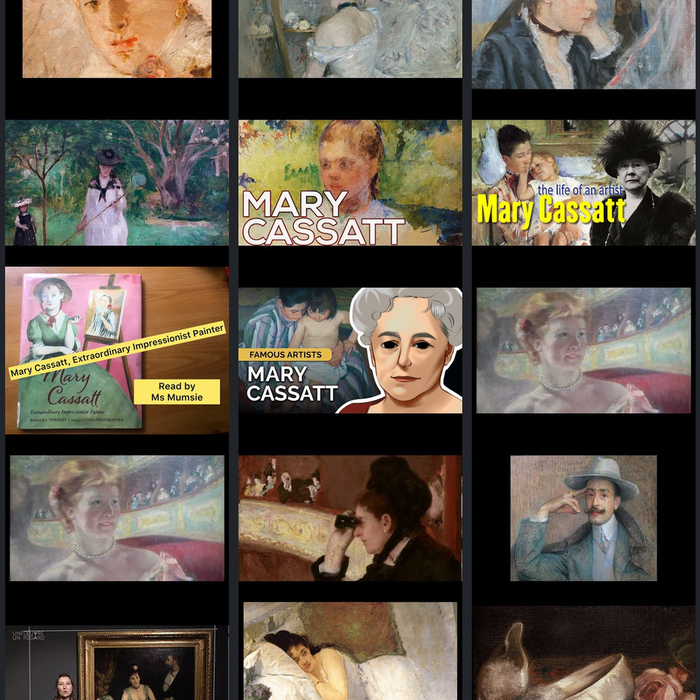
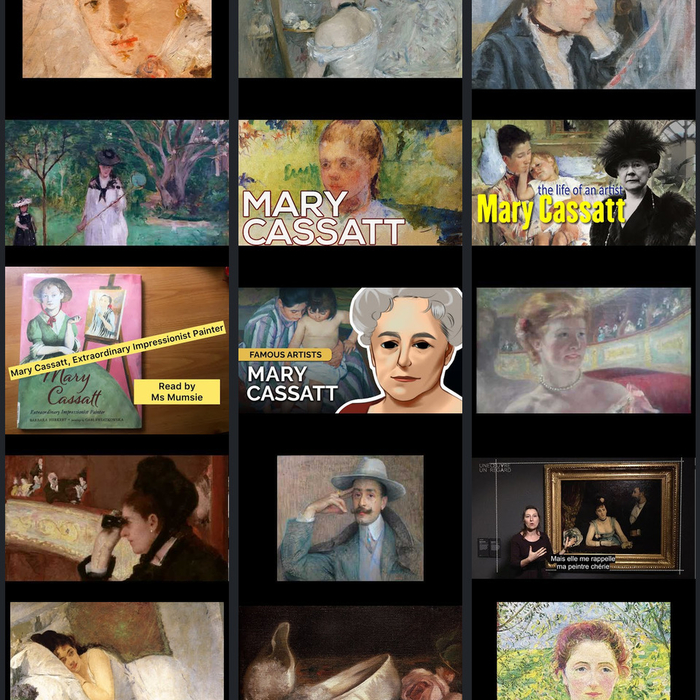
New Revisions

Changed region(s): [[0.0, 0.63, 1.0, 1.0]]

diff --git a/docs/print/westland-warrior/116/index.html b/docs/print/westland-warrior/116/index.html
@@ -80,65 +80,62 @@
   <span>Cassatt, Woman with a Pearl Necklace in a Loge<sup>[18]</sup></span>
 </div>
 <div class="section yt avoid-break-inside" style="padding-bottom: 2rem;">
-  <span>Cassatt, Woman with a Pearl Necklace in a Loge<sup>[19]</sup></span>
-</div>
-<div class="section yt avoid-break-inside" style="padding-bottom: 2rem;">
-  <span>Cassatt, In the Loge<sup>[20]</sup></span>
+  <span>Cassatt, In the Loge<sup>[19]</sup></span>
 </div>
 <div class="section avoid-break-inside" style="padding-bottom: 2rem;">
   <header>
     <h2>Louise Catherine Breslau</h2>
   </header>
   <div class="paragraph">
-    <span>Louise Catherine Breslau »<sup>[21]</sup></span>
+    <span>Louise Catherine Breslau »<sup>[20]</sup></span>
   </div>
 </div>
 <div class="section yt avoid-break-inside" style="padding-bottom: 2rem;">
-  <span>Louise Catherine Breslau (1856-1927)<sup>[22]</sup></span>
+  <span>Louise Catherine Breslau (1856-1927)<sup>[21]</sup></span>
 </div>
 <div class="section yt avoid-break-inside" style="padding-bottom: 2rem;">
-  <span>Marie Darrieussecq - Une loge aux Italiens - de Eva Gonzalès (In French)<sup>[23]</sup></span>
+  <span>Marie Darrieussecq - Une loge aux Italiens - de Eva Gonzalès (In French)<sup>[22]</sup></span>
 </div>
 <div class="section yt avoid-break-inside" style="padding-bottom: 2rem;">
-  <span>Eva Gonzalès (French, 1849-1883) - Part I - A collection of works painted between 1870 and 1879.<sup>[24]</sup></span>
+  <span>Eva Gonzalès (French, 1849-1883) - Part I - A collection of works painted between 1870 and 1879.<sup>[23]</sup></span>
 </div>
 <div class="section yt avoid-break-inside" style="padding-bottom: 2rem;">
-  <span>Eva Gonzalès (French, 1849-1883) - Part II - A collection painted between 1865 and 1883.<sup>[25]</sup></span>
+  <span>Eva Gonzalès (French, 1849-1883) - Part II - A collection painted between 1865 and 1883.<sup>[24]</sup></span>
 </div>
 <div class="section avoid-break-inside" style="padding-bottom: 2rem;">
   <header>
     <h2>Lilla Cabot Perry</h2>
   </header>
   <div class="paragraph">
-    <span>Lilla Cabot Perry »<sup>[26]</sup></span>
+    <span>Lilla Cabot Perry »<sup>[25]</sup></span>
   </div>
 </div>
 <div class="section yt avoid-break-inside" style="padding-bottom: 2rem;">
-  <span>Lilla Cabot Perry (1848-1933) - An American Impressionist artist.<sup>[27]</sup></span>
+  <span>Lilla Cabot Perry (1848-1933) - An American Impressionist artist.<sup>[26]</sup></span>
 </div>
 <div class="section yt avoid-break-inside" style="padding-bottom: 2rem;">
-  <span>Cecilia Beaux<sup>[28]</sup></span>
+  <span>Cecilia Beaux<sup>[27]</sup></span>
 </div>
 <div class="section yt avoid-break-inside" style="padding-bottom: 2rem;">
-  <span>Cecilia Beaux and Mrs. Isaac Newton Phelps Stokes<sup>[29]</sup></span>
+  <span>Cecilia Beaux and Mrs. Isaac Newton Phelps Stokes<sup>[28]</sup></span>
 </div>
 <div class="section yt avoid-break-inside" style="padding-bottom: 2rem;">
-  <span>Portrait Painting Tutorial | Cecilia Beaux Paint Along<sup>[30]</sup></span>
+  <span>Portrait Painting Tutorial | Cecilia Beaux Paint Along<sup>[29]</sup></span>
 </div>
 <div class="section yt avoid-break-inside" style="padding-bottom: 2rem;">
-  <span>In Dialogue — Cecilia Beaux's Twilight Confidences<sup>[31]</sup></span>
+  <span>In Dialogue — Cecilia Beaux's Twilight Confidences<sup>[30]</sup></span>
 </div>
 <div class="section yt avoid-break-inside" style="padding-bottom: 2rem;">
-  <span>Cecilia Beaux (American, 1855-1942)<sup>[32]</sup></span>
+  <span>Cecilia Beaux (American, 1855-1942)<sup>[31]</sup></span>
 </div>
 <div class="section yt avoid-break-inside" style="padding-bottom: 2rem;">
-  <span>12 Most Famous Paintings of all Time<sup>[33]</sup></span>
+  <span>12 Most Famous Paintings of all Time<sup>[32]</sup></span>
 </div>
 <div class="section yt avoid-break-inside" style="padding-bottom: 2rem;">
-  <span>History's Most Impressive Impressionists (Waldemar Januszczak Documentary)<sup>[34]</sup></span>
+  <span>History's Most Impressive Impressionists (Waldemar Januszczak Documentary)<sup>[33]</sup></span>
 </div>
 <div class="section yt avoid-break-inside" style="padding-bottom: 2rem;">
-  <span>The Great Impressionist Innovators (Waldemar Januszczak Documentary)<sup>[35]</sup></span>
+  <span>The Great Impressionist Innovators (Waldemar Januszczak Documentary)<sup>[34]</sup></span>
 </div>
 <div class="break-after">&nbsp;</div>
 <div>
@@ -161,23 +158,22 @@
   <div>[16]: https://www.youtube.com/watch?v=KQlCRe6QELg</div>
   <div>[17]: https://www.youtube.com/watch?v=k4E958E3yg0</div>
   <div>[18]: https://www.youtube.com/watch?v=guxLpVICBjg</div>
-  <div>[19]: https://www.youtube.com/watch?v=guxLpVICBjg</div>
-  <div>[20]: https://www.youtube.com/watch?v=HVuyK_vIMfc</div>
-  <div>[21]: https://en.wikipedia.org/wiki/Louise_Catherine_Breslau</div>
-  <div>[22]: https://www.youtube.com/watch?v=dB56CyUTf3o</div>
-  <div>[23]: https://www.youtube.com/watch?v=ijbWd_Be1MU</div>
-  <div>[24]: https://www.youtube.com/watch?v=isyPhRQdveQ</div>
-  <div>[25]: https://www.youtube.com/watch?v=8RArigCcMXg</div>
-  <div>[26]: https://en.wikipedia.org/wiki/Lilla_Cabot_Perry</div>
-  <div>[27]: https://www.youtube.com/watch?v=qwqmILdVux4</div>
-  <div>[28]: https://www.youtube.com/watch?v=4Qh21mlD4Sc</div>
-  <div>[29]: https://www.youtube.com/watch?v=UBC-ty9SEms</div>
-  <div>[30]: https://www.youtube.com/watch?v=y820n6vy8cw</div>
-  <div>[31]: https://www.youtube.com/watch?v=iJ9qlUPwAo0</div>
-  <div>[32]: https://www.youtube.com/watch?v=hl5trLOiRto</div>
-  <div>[33]: https://www.youtube.com/watch?v=Y65_Qs1Wq0w</div>
-  <div>[34]: https://www.youtube.com/watch?v=kzjRJzhnn8k</div>
-  <div>[35]: https://www.youtube.com/watch?v=d4DMMycMphk</div>
+  <div>[19]: https://www.youtube.com/watch?v=HVuyK_vIMfc</div>
+  <div>[20]: https://en.wikipedia.org/wiki/Louise_Catherine_Breslau</div>
+  <div>[21]: https://www.youtube.com/watch?v=dB56CyUTf3o</div>
+  <div>[22]: https://www.youtube.com/watch?v=ijbWd_Be1MU</div>
+  <div>[23]: https://www.youtube.com/watch?v=isyPhRQdveQ</div>
+  <div>[24]: https://www.youtube.com/watch?v=8RArigCcMXg</div>
+  <div>[25]: https://en.wikipedia.org/wiki/Lilla_Cabot_Perry</div>
+  <div>[26]: https://www.youtube.com/watch?v=qwqmILdVux4</div>
+  <div>[27]: https://www.youtube.com/watch?v=4Qh21mlD4Sc</div>
+  <div>[28]: https://www.youtube.com/watch?v=UBC-ty9SEms</div>
+  <div>[29]: https://www.youtube.com/watch?v=y820n6vy8cw</div>
+  <div>[30]: https://www.youtube.com/watch?v=iJ9qlUPwAo0</div>
+  <div>[31]: https://www.youtube.com/watch?v=hl5trLOiRto</div>
+  <div>[32]: https://www.youtube.com/watch?v=Y65_Qs1Wq0w</div>
+  <div>[33]: https://www.youtube.com/watch?v=kzjRJzhnn8k</div>
+  <div>[34]: https://www.youtube.com/watch?v=d4DMMycMphk</div>
 </div>
 
   </main>

diff --git a/docs/read/westland-warrior/116/index.html b/docs/read/westland-warrior/116/index.html
@@ -211,13 +211,6 @@
   </div>
 </div>
 <div class="card card-section bg-dark text-warning shadow">
-  <div class="card-header">Cassatt, Woman with a Pearl Necklace in a Loge</div>
-  <a href="https://www.youtube.com/watch?v=guxLpVICBjg" title="Cassatt, Woman with a Pearl Necklace in a Loge" alt="Cassatt, Woman with a Pearl Necklace in a Loge"><img src="/image/yid-guxLpVICBjg.jpg" alt="Cassatt, Woman with a Pearl Necklace in a Loge" class="card-img"></a>
-  <div class="card-body">
-    <a href="https://www.youtube.com/watch?v=guxLpVICBjg" title="Cassatt, Woman with a Pearl Necklace in a Loge" class="btn btn-warning">Play Video</a>
-  </div>
-</div>
-<div class="card card-section bg-dark text-warning shadow">
   <div class="card-header">Cassatt, In the Loge</div>
   <a href="https://www.youtube.com/watch?v=HVuyK_vIMfc" title="Cassatt, In the Loge" alt="Cassatt, In the Loge"><img src="/image/yid-HVuyK_vIMfc.jpg" alt="Cassatt, In the Loge" class="card-img"></a>
   <div class="card-body">
